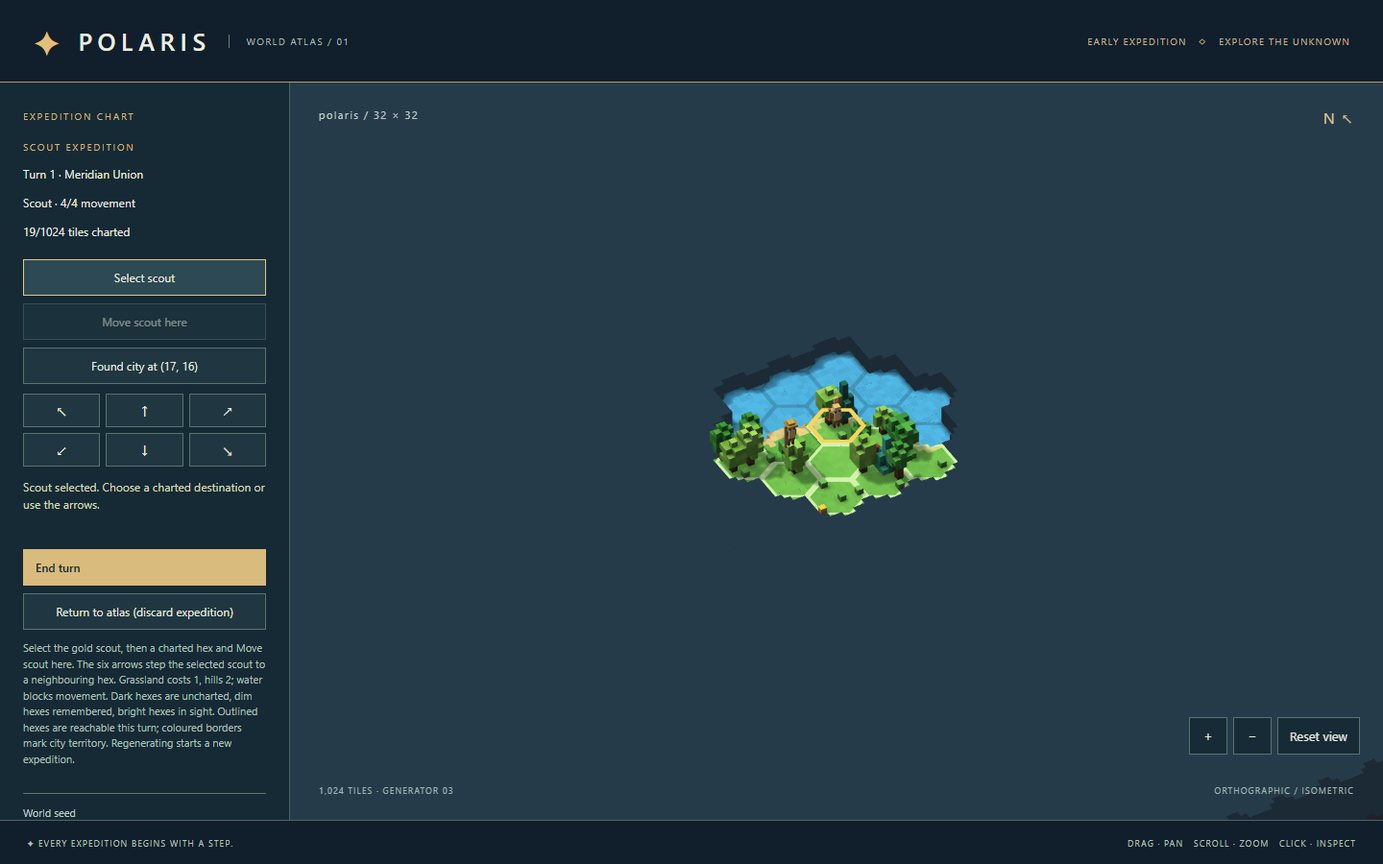
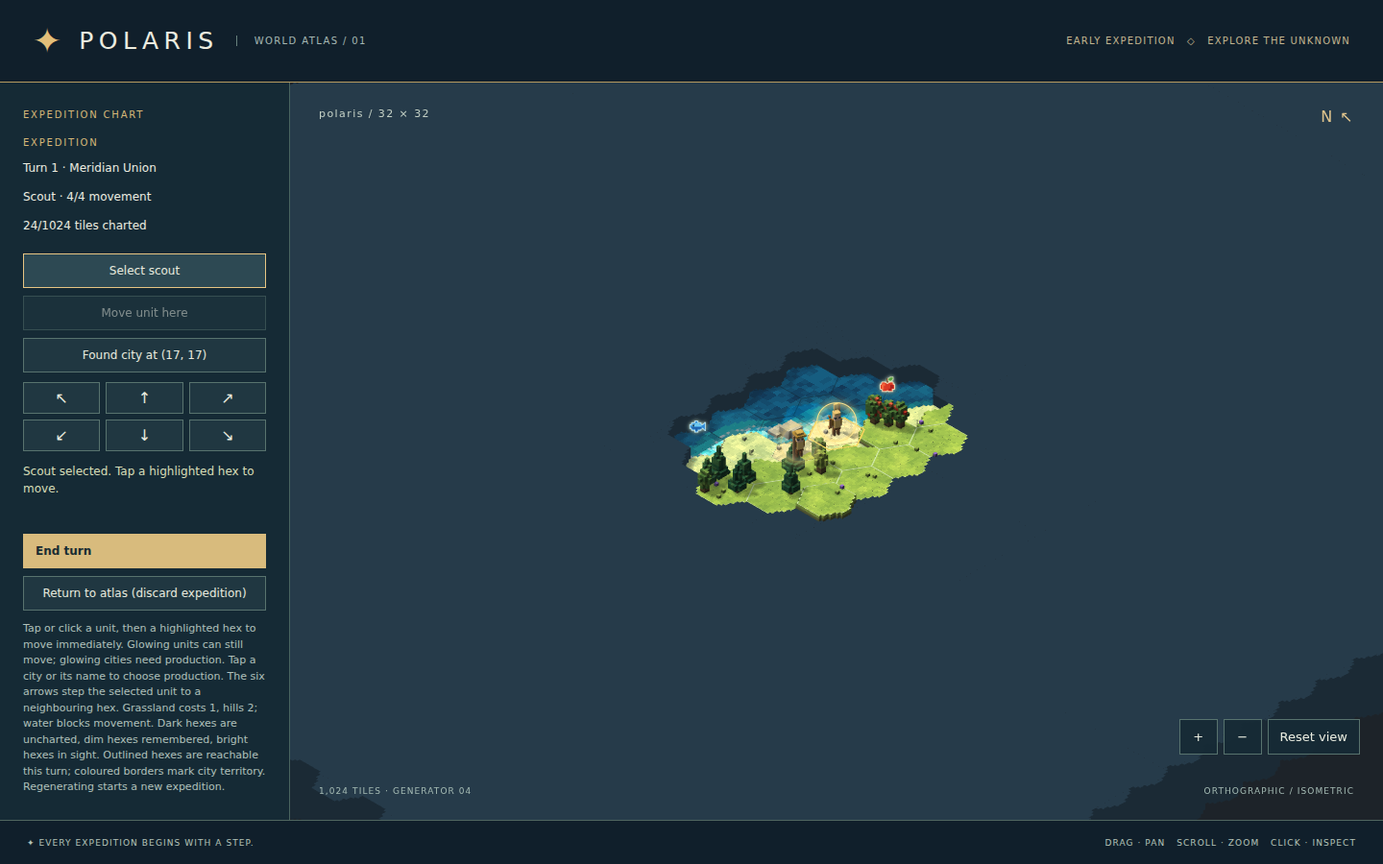
Refresh application screenshots and merged baseline documentation
Document the verified c6c4cad foundation, completed save maintenance and unblocked P2. Refresh browser evidence, identify capture provenance and simulated storage failures, preserve both authoritative references, and align the parent tracker with the canonical delivery order.

diff --git a/README.md b/README.md
@@ -2,9 +2,9 @@
 
 An original voxel-isometric strategy **foundation**, not a complete 4X game. The deterministic atlas now includes a playable scout expedition and a first city-economy slice: founding, yields, growth and production, with chunked WebGL 2 rendering and an Art Deco HUD. Two players can also play a match **by messenger**, with no server: each finished turn is a link, code or file that you send through any chat.
 
-![Polaris generator 2 showcase, seed polaris, 64 × 48, captured from the production app](docs/showcase.png)
+![Current Polaris generator-v4 atlas: cubic-voxel hex islands and ocean-connected bays, seed polaris, 64 × 48](docs/voxel-organic-islands.png)
 
-*This image predates the voxel renderer and remains the authoritative reference for landforms, composition and map scale. With explicit user approval, the look of the board follows the [hex voxel concept](docs/concept-hex-voxel.jpg): **hex fields built from cubic voxels**, a brighter diorama palette, soft shadows, territory borders, city name plates and voxel unit figures (see the [expedition captures](#visual-overview)). Both references and the binding graphics rules are listed in the [Copilot instructions](.github/copilot-instructions.md#visual-references).*
+*Running production application, captured 12 November 2026 from `c6c4cad`; see [capture provenance](#current-verification-and-screenshot-provenance). This is the implemented foundation, not the planned complete game. The older [landform reference](docs/showcase.png) and approved [hex voxel concept](docs/concept-hex-voxel.jpg) remain unchanged and authoritative for their separate scopes. Both references and the binding graphics rules are listed in the [Copilot instructions](.github/copilot-instructions.md#visual-references).*
 
 ## Plan and visual direction
 
@@ -17,14 +17,14 @@ An original voxel-isometric strategy **foundation**, not a complete 4X game. The
 
 **Implemented:** roadmap briefs 6–7 / issues #7–#8, deterministic commands/turns, movement, exploration, founding, city yields, population growth, and production, plus two-player matches played by exchanging turn messages ([Play by messenger](#play-by-messenger)). Combat, worker actions, research, policies, diplomacy, and opponent AI are deliberately deferred.
 
-**Integrated baseline:** the complete foundation (#20, #21, #22, #24, #29 and #31) and canonical design (#33/#34) are on `main` at `f3f07d4`. The next gameplay package is P2/#36, after save reliability #35: scenario and player slots for a complete **two-human, three-class, three-beacon match**, then the six-resource economy with the small shared research tree and freely selectable four tribes. Exact new costs and balance values remain provisional; the current Meridian/Lantern rules and saves are not silently replaced.
+**Integrated baseline, checked 12 November 2026:** the complete foundation (#20, #21, #22, #24, #29 and #31), canonical design (#33/#34), and save reliability #35/#47 are on `main` at `c6c4cad`. #35 is closed and all prerequisites of the next gameplay package, P2/#36, are closed. P2 remains unimplemented: scenario and player slots for a complete **two-human, three-class, three-beacon match**, then the six-resource economy with the small shared research tree and freely selectable four tribes. Exact new costs and balance values remain provisional; the current Meridian/Lantern rules and saves are not silently replaced.
 
 **Confirmed target decisions, not implemented:** PvP begins at war; mirror tribes are allowed from the start; there is no city-count cap. Minimum spacing (initial test value: 4 hex steps), supply and expensive additional founders limit expansion. The first founder and scout are scenario-provided, with equal disclosed stocks and no starting army. Military food debt is accepted for the first iteration. Civilians can be killed only through an explicit adjacent attack, with no automatic movement kill, loot, conversion or retreat/prisoner subsystem. Research is one shared eight-technology tree with one project and fixed baseline yield per player faction, retained per-technology progress and no research theft by conquest. The first tribal-content slice adds one characteristic ability per tribe; full catalogs remain expansion goals.
 
 ## Requirements and setup
 
 - **Node.js 24 LTS**, npm 11 (Node 24's bundled npm); other Node majors are not supported by this foundation.
-- Desktop-class current Chromium or Microsoft Edge with **WebGL 2** enabled. Windows is the initial target; this PR's automated evidence is Linux Chromium, not a claim of Windows hardware validation.
+- Desktop-class current Chromium or Microsoft Edge with **WebGL 2** enabled. Windows is the initial target; automated suite evidence below is Linux Chromium, not a claim of Windows hardware validation.
 - Phone browsers are an early target: portrait/landscape layout and touch gestures are checked in emulated Chromium only. Real Android/iOS devices are not validated.
 - No editor, account, backend, GPU-equipped workstation, runtime CDN, or asset-authoring tool is required.
 
@@ -63,7 +63,7 @@ is active.
 To try a real phone on the same Wi-Fi, run `npm run dev -- --host` and open the
 printed *Network* URL on the phone.
 
-Mobile captures of the hex voxel world from a local browser-suite run of branch `klaus/hex-voxel-world`, seed `polaris`, Windows Chromium/SwiftShader with touch emulation (portrait 390 × 844; landscape 844 × 390):
+Current application captures from the 12 November 2026 `main` browser suite at `c6c4cad`, seed `polaris`, 32 × 32, Linux Chromium/SwiftShader with touch emulation (portrait 390 × 844; landscape 844 × 390; DPR 2):
 
 ![Phone portrait atlas: map above the independently scrolling controls](docs/mobile-phone-portrait-atlas.png)
 
@@ -71,7 +71,7 @@ Mobile captures of the hex voxel world from a local browser-suite run of branch 
 
 ![Phone landscape atlas using the desktop-style side-by-side layout](docs/mobile-phone-landscape-atlas.png)
 
-These are emulated browser captures, not evidence from physical iOS/Android devices or mobile GPUs. The run passed **116 unit tests** and **21 browser tests**, plus type-check, lint and production build; the pull request's GitHub Actions run repeats them on Linux.
+These are emulated browser captures, not evidence from physical iOS/Android devices or mobile GPUs. [Current verification and screenshot provenance](#current-verification-and-screenshot-provenance) records the source run, environment and validation results.
 
 ### Docker and Azure Container Apps
 
@@ -302,7 +302,7 @@ Regenerating during an expedition starts a fresh expedition on the new world. In
 
 ### Visual overview
 
-Captures of the hex voxel world from a local browser-suite run of branch `klaus/hex-voxel-world`, seed `polaris`, 32 × 32, 1440 × 900 viewport, Windows Chromium/SwiftShader:
+Current application captures from the 12 November 2026 `main` browser suite at `c6c4cad`, seed `polaris`, 32 × 32, 1440 × 900 viewport, Linux Chromium/SwiftShader, DPR 1:
 
 ![Turn 1: the selected scout with its gold hex outline and its sight area of two hexes, next to the founder, surrounded by uniform uncharted terrain](docs/expedition.png)
 
@@ -310,7 +310,7 @@ Captures of the hex voxel world from a local browser-suite run of branch `klaus/
 
 ![The founded city Sonnenfurt as a voxel settlement with its name plate and population 2, a gold border around its territory, after its Guard completed](docs/expedition-city.png)
 
-These are functional UI captures, not concept art or evidence of native-GPU performance. This revision passed **116 unit tests**, **21 browser tests**, type-check, lint and production build in that run; the pull request's GitHub Actions run repeats them on Linux.
+These are functional UI captures, not concept art or evidence of native-GPU performance. See [current verification and screenshot provenance](#current-verification-and-screenshot-provenance).
 
 ## Play by messenger
 
@@ -343,7 +343,7 @@ How it behaves:
 
 ### Visual overview
 
-Captures of the hex voxel world from a local browser-suite run of branch `klaus/hex-voxel-world`, seed `polaris`, 32 × 32, Windows Chromium/SwiftShader. The idle panel and the match list are 1440 × 900; the two device captures are 1100 × 760 and come from two isolated browser contexts of one test:
+Current application captures from the 12 November 2026 `main` browser suite at `c6c4cad`, seed `polaris`, 32 × 32, Linux Chromium/SwiftShader, DPR 1. The idle panel, match list and storage warning are 1440 × 900; the two device captures are 1100 × 760 and come from two isolated browser contexts of one test:
 
 ![The atlas with the Play by messenger panel before a match: start a match or open a received turn](docs/messenger-idle.png)
 
@@ -353,7 +353,9 @@ Captures of the hex voxel world from a local browser-suite run of branch `klaus/
 
 ![Your matches on one device: the match named Andreas is marked in gold because it is your turn, the other waits for Lantern Compact](docs/messenger-match-list.png)
 
-These are functional UI captures, not concept art or evidence of native-GPU performance. This revision passed **116 unit tests**, **21 browser tests**, type-check, lint and production build in that run; the pull request's GitHub Actions run repeats them on Linux.
+![A simulated full browser store shows a persistent warning and refuses to switch away from the unsaved current match](docs/messenger-storage-failure.png)
+
+The storage picture deliberately simulates a quota failure in an isolated test profile; it is not an error in the normal capture environment. The current match and pasted turn remain available, and the test verifies saving/resuming after storage recovers. All pictures are real UI captures, not concept art or native-GPU benchmarks; see [current verification and screenshot provenance](#current-verification-and-screenshot-provenance).
 
 ## Map inputs and controls
 
@@ -395,9 +397,9 @@ The palette is calibrated against the **rendered framebuffer**, including lighti
 
 ![Closer running-app view: broad lowered sandy areas within land hexes, with intact cliffs beside them](docs/voxel-sandbanks.png)
 
-Application captures recorded for #31, now merged: `polaris`, a 64 × 48 whole-world overview and 32 × 32 canvas details, desktop Chromium/SwiftShader at 1440 × 900, DPR 1. The overview keeps the authoritative reference's map dimensions and broad separated landmasses while showing the new open bays. Low connected highlands replace the per-hex grassy pillars; stone groups have broader caps, varied heights and chipped shoulders. The approved colours, four underwater terraces, sandbanks, smaller trees, isometric camera and voxel densities are retained. These show the implementation, not concept art or a hardware performance benchmark. New regressions measure actual bay depth and connectivity, world-space land heights and coarse merging, rock footprints/caps/centre clearance, canonical bay selection and grey framebuffer geometry. Earlier coast, resource, palette, grid, gameplay and messenger checks remain. The captures document that graphics revision; save-reliability maintenance changes no terrain visuals.
+Refreshed application captures from `c6c4cad` on 12 November 2026: `polaris`, a 64 × 48 whole-world overview and 32 × 32 canvas details. The overview was captured locally on Windows; detail images come from the Linux `main` browser suite. Both use Chromium/SwiftShader at 1440 × 900, DPR 1. The overview retains the reference's map dimensions and broad separated landmasses while showing the open bays. Low connected highlands replace per-hex grassy pillars; stone groups have broader caps, varied heights and chipped shoulders. These show the implementation, not concept art or a hardware benchmark. Save maintenance and this documentation refresh change no terrain visuals; see [capture provenance](#current-verification-and-screenshot-provenance).
 
-Graphics-polish validation (#31): **146 unit tests and 40 browser regressions**, type-check, lint and production build. Coverage includes direct mouse/touch/keyboard unit selection, independent movement budgets, range/glow refresh, city selection/production, waiting-turn locks, replay and older-rule save retention. Water tests measure changing but sparse framebuffer pixels, a maximum temporal colour-channel change of 80/255 in the inspected water fixture, bounded idle frame counts, unchanged geometry/RNG and reduced-motion/overview shutdown. Static palette tests use reduced motion. Adaptive-detail regressions cover 64², 128² and 256² expeditions, all four densities, chunk-window pan/reuse, resource bounds, picking, fog/cities and exact overview restoration. Cropped chunks match full-grid geometry byte-for-byte. The wide-view 256² regression saturates the exact 128-marker limit and verifies cleanup. GitHub Actions runs the complete suite on supported Node 24; local browser verification includes focused reruns after fixture updates.
+Graphics regression coverage includes direct mouse/touch/keyboard unit selection, independent movement budgets, range/glow refresh, city selection/production, waiting-turn locks, replay and older-rule save retention. Water tests measure changing but sparse framebuffer pixels, a maximum temporal colour-channel change of 80/255 in the inspected water fixture, bounded idle frame counts, unchanged geometry/RNG and reduced-motion/overview shutdown. Static palette tests use reduced motion. Adaptive-detail regressions cover 64², 128² and 256² expeditions, all four densities, chunk-window pan/reuse, resource bounds, picking, fog/cities and exact overview restoration. Cropped chunks match full-grid geometry byte-for-byte. The wide-view 256² regression saturates the exact 128-marker limit and verifies cleanup. Current suite totals and the source run are recorded below rather than attached to older graphics branches.
 
 ### Visual overview: water glints and direct orders
 
@@ -405,7 +407,7 @@ Graphics-polish validation (#31): **146 unit tests and 40 browser regressions**,
 
 ![Fresh running expedition: a worker selected after a direct move, reachable hexes and a glowing city awaiting production](docs/voxel-direct-orders.png)
 
-Captured from this implementation on desktop Chromium/SwiftShader, seed `polaris`, 32 × 32. The water picture is one frame of the animation; browser tests verify temporal pixel changes. The glows are static availability indicators. These are not reference artwork or native-device performance measurements.
+Captured by the 12 November 2026 `main` browser suite at `c6c4cad`, Linux Chromium/SwiftShader, seed `polaris`, 32 × 32, 1440 × 900, DPR 1. The water picture is one frame of the animation; browser tests verify temporal pixel changes. The glows are static availability indicators. These are not reference artwork or native-device performance measurements.
 
 **Zoom-dependent detail, up to 256 × 256:** the overview retains the economical 16/8/4/2 voxel densities, but zooming into larger maps now restores 4, 8 and ultimately 16 voxels per hex. Trees, rocks, sandbanks and underwater terraces regain their detailed geometry. The density follows the world-space viewport footprint, including aspect ratio and height clearance, rather than a fixed number of zoom clicks. The renderer keeps one padded, chunk-aligned window at a single density; its cut edges stay outside the view. It never builds the entire 256² world at showcase density. Existing chunks are reused while panning and departing chunks/textures are released. A hysteresis band avoids repeated rebuilds near a zoom threshold.
 
@@ -413,13 +415,27 @@ The canonical map, generator, saved games, visibility and simulation RNG do not 
 
 ### Visual overview: adaptive 256² detail
 
-The same `polaris` 256 × 256 world in the running production build, desktop Chromium/SwiftShader at 1440 × 900. The overview uses density 2; the close view restores density 16, including apple voxels, stone deposits, fine ground shades and coastal terraces. These are fresh application captures, not a reference image or a frame-rate benchmark.
+The same `polaris` 256 × 256 world in the running `c6c4cad` production build, captured by the 12 November 2026 `main` browser suite, Linux Chromium/SwiftShader at 1440 × 900, DPR 1. The overview uses density 2; the close view restores density 16, including stone deposits, fine ground shades and detailed vegetation. These are canvas captures from the actual application, not reference images or a frame-rate benchmark.
 
 ![256-square map in its economical overview](docs/voxel-large-map-overview.png)
 
 ![The same 256-square map zoomed in with full voxel detail](docs/voxel-large-map-detail.png)
 
 ## Validation and benchmark evidence
+
+### Current verification and screenshot provenance
+
+The current screenshot set was captured on **12 November 2026** from merged source [`c6c4cadd19c925c11314f042a39a213b73d7a043`](https://github.com/aschauera/polaris-game/commit/c6c4cadd19c925c11314f042a39a213b73d7a043), including #47. All use seed `polaris`, rules v4 and generator v4. The screenshots are committed here so they remain available after CI artifacts expire.
+
+The [merged-main validation run](https://github.com/aschauera/polaris-game/actions/runs/43162446295) passed on supported **Node 24.22.2**: type-check, lint, **150 unit tests**, **42 browser tests**, **33 Azure setup scenarios plus release-workflow checks**, and the production build. The browser suite took 9.9 minutes. This is dated evidence for the captured source revision; later commits have their own CI checks.
+
+| Capture group | Production-app source and environment |
+| --- | --- |
+| 64 × 48 atlas overview, also shown at the top | Local production build of the same commit, Windows Chromium 156.0.8078.4 / ANGLE SwiftShader, 1440 × 900, DPR 1; reduced motion |
+| Expedition, city, messenger, storage warning, coastal details, glints and 256² detail | [Merged-main browser run](https://github.com/aschauera/polaris-game/actions/runs/43162446295), Linux Chromium / ANGLE SwiftShader, 1440 × 900, DPR 1; host/guest contexts are 1100 × 760 |
+| Phone atlas and messenger | Same CI run, Chromium touch emulation, portrait 390 × 844 / landscape 844 × 390, DPR 2 |
+
+Most stills use reduced motion; the water-glint capture explicitly enables animation. Detail images cropped to the canvas region are 1138 × 768: they omit the sidebar but retain any visible projected labels and camera controls. No image is a measurement of native/mobile GPU performance or proof of the planned combat/economy/tribal gameplay. The local overview build used existing dependencies and Node 26, outside the supported Node 24 range; supported-runtime validation comes from CI. The earlier Windows/Node-26 water-glint timeout remains a documented local limitation in [#47](https://github.com/aschauera/polaris-game/pull/47), not something this docs-only change fixes.
 
 Save-reliability regressions (#35) additionally cover quota/write failures, recovery, explicit discard, both new and known cross-match imports, migration/pointer/removal failures, the exact 10,000-order boundary, and retained over-limit archives. Browser tests exchange the last admissible turn between isolated devices and verify that no 10,001st order or retained-record overwrite is accepted.
 
@@ -471,10 +487,10 @@ For CI-equivalent software measurements, use the Chromium flags documented above
 ## Known limitations
 
 - Only exploration, city founding and a production queue are playable. No combat, worker actions, research, policies, diplomacy, AI, general save/load, live multiplayer, physics, or external services.
-- A solo expedition uses one faction and is lost when the page closes; only messenger matches are stored, in `localStorage` (see [Limits of a serverless match](#limits-of-a-serverless-match)). Drawing founders and units, remembered (last-known) rival cities, hidden enemy units and mutable last-known terrain belong to later milestones.
+- A solo expedition uses one faction and is lost when the page closes; only messenger matches are stored, in `localStorage` (see [Limits of a serverless match](#limits-of-a-serverless-match)). Founders and units are rendered now; remembered (last-known) rival cities and mutable last-known terrain belong to later milestones.
 - Only Chromium is automated; phone viewports and touch input run as Chromium emulation. Windows Edge hardware, Firefox/Safari, real Android/iOS devices and mobile GPUs, long-duration profiling, assistive-technology map navigation, and WebGPU are unvalidated/deferred.
 - Continents and tree clusters are seeded procedural shapes, not a climate or hydrology simulation; rivers and bridges are not yet represented. At full stress-map zoom tiles are intentionally tiny; zoom in to inspect them.
-- Voxel chunk meshing, scene upload and remeshing after exploration run synchronously on the main thread; switching to the 256² fixture takes about 2 seconds under SwiftShader. Large-map interactions must be profiled before promising larger maps. The 256² fixture is not a finished-game performance promise.
+- Voxel chunk meshing, scene upload and remeshing after exploration run synchronously on the main thread. The 256² fixture's load/interaction latency depends on the runner; screenshots do not establish it. Large-map interactions still need device profiling. The 256-per-side cap remains fixed, not a finished-game performance promise.
 - The recorded SwiftShader 256² frame intervals are seconds, not a smooth-play claim; native GPU validation and focused rendering profiling remain open.
 - Babylon's initial bundle is substantial; Vite reports a chunk-size advisory. It is not a build failure. Loading/code-splitting optimization is deferred until measured.
 

diff --git a/.github/copilot-instructions.md b/.github/copilot-instructions.md
@@ -8,7 +8,7 @@ These rules apply to every Copilot agent and contributor working on Polaris, so 
 - GitHub allows *blocked by* relationships only between issues, not between pull requests. So every PR closes its own issue (`Closes #N` in the description), and the issues carry the order. When new work builds on unmerged work, create an issue for it and mark it blocked by the issue of that work: sidebar → Relationships → *Mark as blocked by*, or `gh api -X POST repos/aschauera/polaris-game/issues/<N>/dependencies/blocked_by -F issue_id=<database id of the blocker>`.
 - A PR that builds on another unmerged PR is **stacked**: its base is that PR's branch, and its description states the merge order. Merge in *blocked by* order. When a base PR merges and its branch is deleted, GitHub retargets the next PR to `main`. Closing keywords only take effect for PRs that target `main`, so check that the issue closed after the merge.
 - Issue texts can be older than the current contracts. Briefs 8–14 (#9–#15), for example, were written for the square grid and generator 2. Where an issue contradicts the documentation or this file, the documentation and this file win; correct or annotate the issue when you notice.
-- The [current package-to-issue map](../docs/roadmap.md#existing-dependencies-and-legacy-issues) supersedes the old first-playable issue sequence. P2 (#36) follows the integrated foundation and save reliability #35; core combat/victory precede workers/research, and diplomacy/AI remain later. #12 was folded into P3/#10, not implemented separately. Check live relationships before starting; documenting or creating an issue does not authorize its blocked gameplay.
+- The [current package-to-issue map](../docs/roadmap.md#existing-dependencies-and-legacy-issues) supersedes the old first-playable issue sequence, including the original waves in parent #5. Save reliability #35 merged through #47; all P2/#36 prerequisites are closed as of 12 November 2026. P2 is the next gameplay package, not already implemented. Core combat/victory precede workers/research, and diplomacy/AI remain later. #12 was folded into P3/#10, not implemented separately. Check live relationships before starting; documenting or creating an issue does not authorize its blocked gameplay.
 
 ## Keep docs and agent guidance in sync
 
@@ -18,7 +18,7 @@ These rules apply to every Copilot agent and contributor working on Polaris, so 
 
 ## Game and multiplayer decisions
 
-- **Canonical English documentation:** [game design](../docs/game-design.md#target-status-and-baseline) owns the full implemented/target rules, lore, tribes/catalogs, economy and decision register; [architecture](../docs/architecture.md#planned-target-domain-and-compatibility) owns technical deterministic-domain/messenger/version/save contracts; [roadmap](../docs/roadmap.md#detailed-target-delivery-plan) owns the complete dependent packages, acceptance and testing. Integrate changes there, not in parallel main documents. The complete foundation #20 → #21 → #22 → #24 → #29 → #31 and design #33/#34 are integrated into main at `f3f07d4`; preserve those contracts. Do not merge/retarget PRs merely to document them, or present the planned target gameplay as implemented.
+- **Canonical English documentation:** [game design](../docs/game-design.md#target-status-and-baseline) owns the full implemented/target rules, lore, tribes/catalogs, economy and decision register; [architecture](../docs/architecture.md#planned-target-domain-and-compatibility) owns technical deterministic-domain/messenger/version/save contracts; [roadmap](../docs/roadmap.md#detailed-target-delivery-plan) owns the complete dependent packages, acceptance and testing. Integrate changes there, not in parallel main documents. The complete foundation #20 → #21 → #22 → #24 → #29 → #31, design #33/#34 and save reliability #47 are integrated into main at `c6c4cad`; preserve those contracts. Do not merge/retarget PRs merely to document them, or present the planned target gameplay as implemented.
 - **Planned gameplay is not implemented:** two humans, three common counter-classes (Bulwark > Assault > Breaker > Bulwark), three public beacons, city conquest and explicit end conditions come before full tribal content. Amazons, Raccoons, Engineers and Sorceresses replace Meridian/Lantern only in new versioned content; six-resource economics, workforce, hunger, supply and bounded abilities are planned. Numeric balance and remaining ability/content choices stay provisional; do not present test values as verified balance. Never reinterpret old saves under the new design.
 - **Confirmed target decisions:** PvP starts at war; diplomacy is optional later. Both players choose tribes independently, including mirrors from the start; ownership and research belong to player IDs, not tribe IDs. There is no city-count cap: spacing (initial test value 4 hex steps), supply and expensive founders constrain expansion. Additional founders cost roughly three base combat units' work plus wood/stone/local food, without implicit population cost; the starting founder/scout and equal disclosed stocks are scenario exceptions, not a starting army. Military food debt is accepted for the first iteration. Civilians can be killed only through an explicit adjacent attack consuming the attack action, with no automatic movement kill, loot, conversion, retreat or prisoner subsystem; city fortifications and then civilian occupancy must be cleared before atomic takeover.
 - **Research and staged content:** Stockpiling → Cultivation Methods, Roadbuilding → City Planning, Metalworking → Equipment, Resonance Measurement → Resonance Engineering. One project per player faction, fixed faction baseline plus staffed knowledge buildings, retained per-technology progress on switching, no research theft through conquest. Basic food/wood/stone/simple metal, all three base classes and beacon activation need no research. Housing unlocks precede population 4/7 territory gates. Research F1 depends on P7, before complete P8, never on P11; the first isolated combat/victory slice needs no research. Diplomacy/AI are not first-match blockers. Initially implement one characteristic ability per tribe; full catalogs remain expansion goals. Test six mixed and four mirror pairings with swapped starts.
@@ -89,3 +89,5 @@ Details and numbers are in [ADR-004](../docs/architecture.md#adr-004-map-and-ren
 ## Visual review delivery
 
 Whenever visual changes are requested, implement them first, then capture fresh screenshots or other suitable visuals from the updated, running application for human inspection. Deliver these in a separate **Visual overview**, distinct from the implementation summary, with directly viewable visuals or links. Show the actual implemented result, not the reference image, a mockup, or stale screenshots. If fresh visuals cannot be captured, explicitly state the limitation and its cause.
+
+For documentation screenshots, record the source commit, capture date, seed/map dimensions, viewport/DPR and browser/renderer environment in the [README provenance section](../README.md#current-verification-and-screenshot-provenance). Fresh successful CI captures are valid running-app evidence; copy them into the documentation before temporary artifacts expire and identify simulated failure states. Keep current captures distinct from the two immutable references and historical performance measurements.

diff --git a/docs/roadmap.md b/docs/roadmap.md
@@ -1,6 +1,6 @@
 # Polaris: implementation roadmap
 
-**Canonical delivery plan, updated 11 November 2026:** this document owns the full target packages, dependencies, acceptance and test strategy. [Game design](game-design.md#target-status-and-baseline) owns complete rules, lore, catalogs and decision status; [architecture](architecture.md#planned-target-domain-and-compatibility) owns technical version/save contracts. Foundation PRs #20 → #21 → #22 → #24 → #29 → #31 and design #33/#34 are integrated into main at `f3f07d4`; their prerequisite issues are closed. The target gameplay remains planned.
+**Canonical delivery plan, status checked 12 November 2026:** this document owns the full target packages, dependencies, acceptance and test strategy. [Game design](game-design.md#target-status-and-baseline) owns complete rules, lore, catalogs and decision status; [architecture](architecture.md#planned-target-domain-and-compatibility) owns technical version/save contracts. Foundation PRs #20 → #21 → #22 → #24 → #29 → #31, design #33/#34 and save reliability #47 are integrated into main at `c6c4cad`; their prerequisite issues are closed. The target gameplay remains planned.
 
 **New delivery order:** existing hex/city/messenger/graphics foundation → complete two-human match with three common classes, three beacons, city capture and end conditions → six-resource/worker/city economy with the chosen small common research tree → first four-tribe slice with one characteristic ability each → six mixed plus four mirror pairings with swapped starts → further documented tribal catalogs. Diplomacy, policies and AI are optional later. Research is not required before the isolated first combat/victory slice, but its unlocks govern the complete economy. This supersedes the historical future sequencing below, not implemented regression contracts or real GitHub blockers.
 
@@ -12,24 +12,24 @@ Sizes in historical briefs are rough focused-development estimates: **S** 1–2 
 
 ## Detailed target delivery plan
 
-Packages below remain planned. Issue #32 was delivered by #33/#34 and is closed. The separately authorized maintenance #35 fixes save reliability and reconciles the GitHub backlog; it implements no target gameplay and authorizes no merge, release or deployment.
+Packages below remain planned. Issue #32 was delivered by #33/#34 and is closed. Save maintenance #35 was delivered by #47 and is also closed: storage failures and the transport history boundary are covered, and the GitHub backlog is reconciled. It implemented no target gameplay. Documentation/capture refresh #48 records this integrated state without authorizing another merge, release or deployment.
 
 ### Baseline and working order
 
-Use integrated main from `f3f07d4` and then-current compatible maintenance: cities, messenger, hex rules/generator v4, graphics polish and canonical design. Historical main `6aa2dbe8d45ccea58def5054ff32a55295a22b04` lacks those contracts. The original documentation was prepared against cumulative graphics commit `834ffc491fa4932e3c719191db837b3fea639445`; #33/#34 subsequently integrated it. Do not discard inherited foundation work when reviewing a later narrow change.
+Use integrated main from `c6c4cad` and then-current compatible maintenance: cities, messenger, hex rules/generator v4, graphics polish, canonical design and save safeguards. Historical main `6aa2dbe8d45ccea58def5054ff32a55295a22b04` lacks those contracts. The original documentation was prepared against cumulative graphics commit `834ffc491fa4932e3c719191db837b3fea639445`; #33/#34 subsequently integrated it, and #47 added save reliability. Do not discard inherited foundation work when reviewing a later narrow change.
 
 Before any package, reread current code/blockers, fix its test rules and acceptance cases, choose a narrow reviewable increment and appropriate versions, and synchronize affected docs/guidance. Do not reopen confirmed decisions or implement blocked predecessors incidentally. Estimates follow source inspection; package IDs are planning labels mapped to GitHub issues below, not promised dates.
 
 ### Existing dependencies and legacy issues
 
-**Current integration:** #20, #21, #22, #24, #29, #31, #33 and #34 are merged. Foundation issues #8 and #25–#30 and documentation issue #32 are closed. Save reliability #35 is the additional gate before new P2 gameplay.
+**Current integration:** #20, #21, #22, #24, #29, #31, #33, #34 and #47 are merged. Foundation issues #8 and #25–#30, documentation issue #32 and save reliability #35 are closed. P2/#36 has no open blockers and is the next gameplay package, not completed gameplay.
 
-The following GitHub relationships were configured and read back during maintenance #35. Check live state again before starting:
+The following GitHub relationships were configured during maintenance #35 and read back after #47 merged on 12 November 2026. Parent #5's obsolete brief-number waves were synchronized with this map; its original native child links remain historical traceability, not delivery order. The parent stays open for unfinished gameplay. Check live state again before starting:
 
 | Package | Issue | Blocked by |
 | --- | --- | --- |
-| Save reliability | [#35](https://github.com/aschauera/polaris-game/issues/35) | #30 (closed) |
-| P2 scenario/player scaffold | [#36](https://github.com/aschauera/polaris-game/issues/36) | #30, #32 (closed), #35 |
+| Save reliability (completed via #47) | [#35](https://github.com/aschauera/polaris-game/issues/35) | #30 (closed) |
+| P2 scenario/player scaffold | [#36](https://github.com/aschauera/polaris-game/issues/36) | #30, #32, #35 (all closed) |
 | P3 visibility-safe combat | [#10](https://github.com/aschauera/polaris-game/issues/10) | #36 |
 | P4 city capture/occupation | [#37](https://github.com/aschauera/polaris-game/issues/37) | #10 |
 | P5 beacons/results | [#15](https://github.com/aschauera/polaris-game/issues/15) | #37 |
@@ -91,7 +91,7 @@ Acceptance: complete four tribes/common rules; historical main separated from th
 
 **Prerequisites:** P0 and the real six-PR chain. On main, prerequisite issues must actually be closed; alternatively use an expressly approved stacked basis.
 
-The foundation is integrated on main at `f3f07d4`, with the prerequisite issues closed. Before new gameplay, include save reliability #35, reread then-current hex/city/messenger/storage/render contracts and run the existing checks. This completed gate is not permission to merge future work without review.
+The foundation and save reliability #35/#47 are integrated on main at `c6c4cad`, with the prerequisite issues closed. Before new gameplay, reread then-current hex/city/messenger/storage/render contracts and run the existing checks. [Current screenshots and verification](../README.md#current-verification-and-screenshot-provenance) document the foundation, not P2+ gameplay. This completed gate is not permission to merge future work without review.
 
 Acceptance: selected basis has those contracts; two devices exchange valid current turns; incompatible saves survive; no square-grid assumptions in new packages. Resolve conflicts with any later predecessor changes.
 

diff --git a/docs/game-design.md b/docs/game-design.md
@@ -6,7 +6,7 @@ An original, browser-first, turn-based 4X game about rival societies rebuilding 
 
 **Implemented scope:** seeded terrain, an interactive camera, tile inspection, scout movement and faction fog, plus the first city founding/economy/production slice (roadmap briefs 6–7) and two-player matches played by exchanging turn messages. Combat, workers, research, diplomacy, AI and victory remain planned. The [visual mockup](visual-mockup.svg) is an original labeled concept, not a screenshot or implementation commitment.
 
-**Canonical design, updated 11 November 2026:** this document contains both the implemented contracts and the complete target design. [The roadmap](roadmap.md#detailed-target-delivery-plan) owns delivery packages and acceptance; [architecture](architecture.md#planned-target-domain-and-compatibility) owns technical compatibility. The entire foundation #20 → #21 → #22 → #24 → #29 → #31 and design #33/#34 are integrated into main at `f3f07d4`. Target gameplay remains planned.
+**Canonical design, status checked 12 November 2026:** this document contains both the implemented contracts and the complete target design. [The roadmap](roadmap.md#detailed-target-delivery-plan) owns delivery packages and acceptance; [architecture](architecture.md#planned-target-domain-and-compatibility) owns technical compatibility. The entire foundation #20 → #21 → #22 → #24 → #29 → #31, design #33/#34 and save reliability #47 are integrated into main at `c6c4cad`. Target gameplay remains planned. [Current running-application screenshots](../README.md#current-verification-and-screenshot-provenance) show only the implemented foundation; the reference images remain unchanged.
 
 ## Map contract
 
@@ -72,12 +72,12 @@ The following is the complete planned game, not a description of executable game
 | **Target** | Intended gameplay, not implemented behavior |
 | **Test rules / test value** | Coherent provisional implementation/playtest fixture, not verified balance |
 | **Proposal** | Recommended edge-case resolution to confirm before implementation |
-| **Implemented baseline** | Present in main from `f3f07d4`; not a claim of completed target gameplay |
+| **Implemented baseline** | Present in main at `c6c4cad`, including save maintenance; not a claim of completed target gameplay |
 | **Later** | Not a prerequisite for the first complete two-human match |
 
 Unless explicitly described as implemented, **all target numbers are test values**. Tribe, unit and building names are working names; their English names below are the canonical documentation vocabulary, not a migration of stored content IDs. Confirmation of a direction does not validate its balance.
 
-The historical main commit `6aa2dbe8d45ccea58def5054ff32a55295a22b04` had a four-neighbour square atlas, generator 2, rules 1, scout movement, faction visibility and turns. It is not the functional basis of this plan. The design was prepared against `klaus/graphics-polish` at `834ffc491fa4932e3c719191db837b3fea639445`, cumulatively including #20, #21, #22, #24, #29 and #31. That foundation and the complete design are now integrated on main at `f3f07d4`.
+The historical main commit `6aa2dbe8d45ccea58def5054ff32a55295a22b04` had a four-neighbour square atlas, generator 2, rules 1, scout movement, faction visibility and turns. It is not the functional basis of this plan. The design was prepared against `klaus/graphics-polish` at `834ffc491fa4932e3c719191db837b3fea639445`, cumulatively including #20, #21, #22, #24, #29 and #31. That foundation and the complete design integrated on main at `f3f07d4`; save reliability #47 followed at `c6c4cad`, without changing the versioned game rules.
 
 | Baseline area | Development contract to preserve | Target change |
 | --- | --- | --- |

diff --git a/docs/architecture.md b/docs/architecture.md
@@ -15,7 +15,7 @@ Dependencies point toward `src/game`. A small composition entry point wires adap
 
 ## Planned target domain and compatibility
 
-The [complete design](game-design.md#target-status-and-baseline) and [delivery plan](roadmap.md#detailed-target-delivery-plan) preserve the whole #20 → #21 → #22 → #24 → #29 → #31 foundation, including browser, hex voxels and messenger, now integrated with #33/#34 on main at `f3f07d4`. The ADRs below describe implemented foundation contracts, not completed target gameplay. This section owns technical contracts only; rules, catalogs and balance status belong in game design.
+The [complete design](game-design.md#target-status-and-baseline) and [delivery plan](roadmap.md#detailed-target-delivery-plan) preserve the whole #20 → #21 → #22 → #24 → #29 → #31 foundation, including browser, hex voxels and messenger, integrated with #33/#34 and save reliability #47 on main at `c6c4cad`. The ADRs below describe implemented foundation contracts, not completed target gameplay. This section owns technical contracts only; rules, catalogs and balance status belong in game design. [Current application captures and verification](../README.md#current-verification-and-screenshot-provenance) identify their exact source and environment; they do not replace the historical performance benchmark or validate target gameplay.
 
 ### Authoritative state and commands
 
